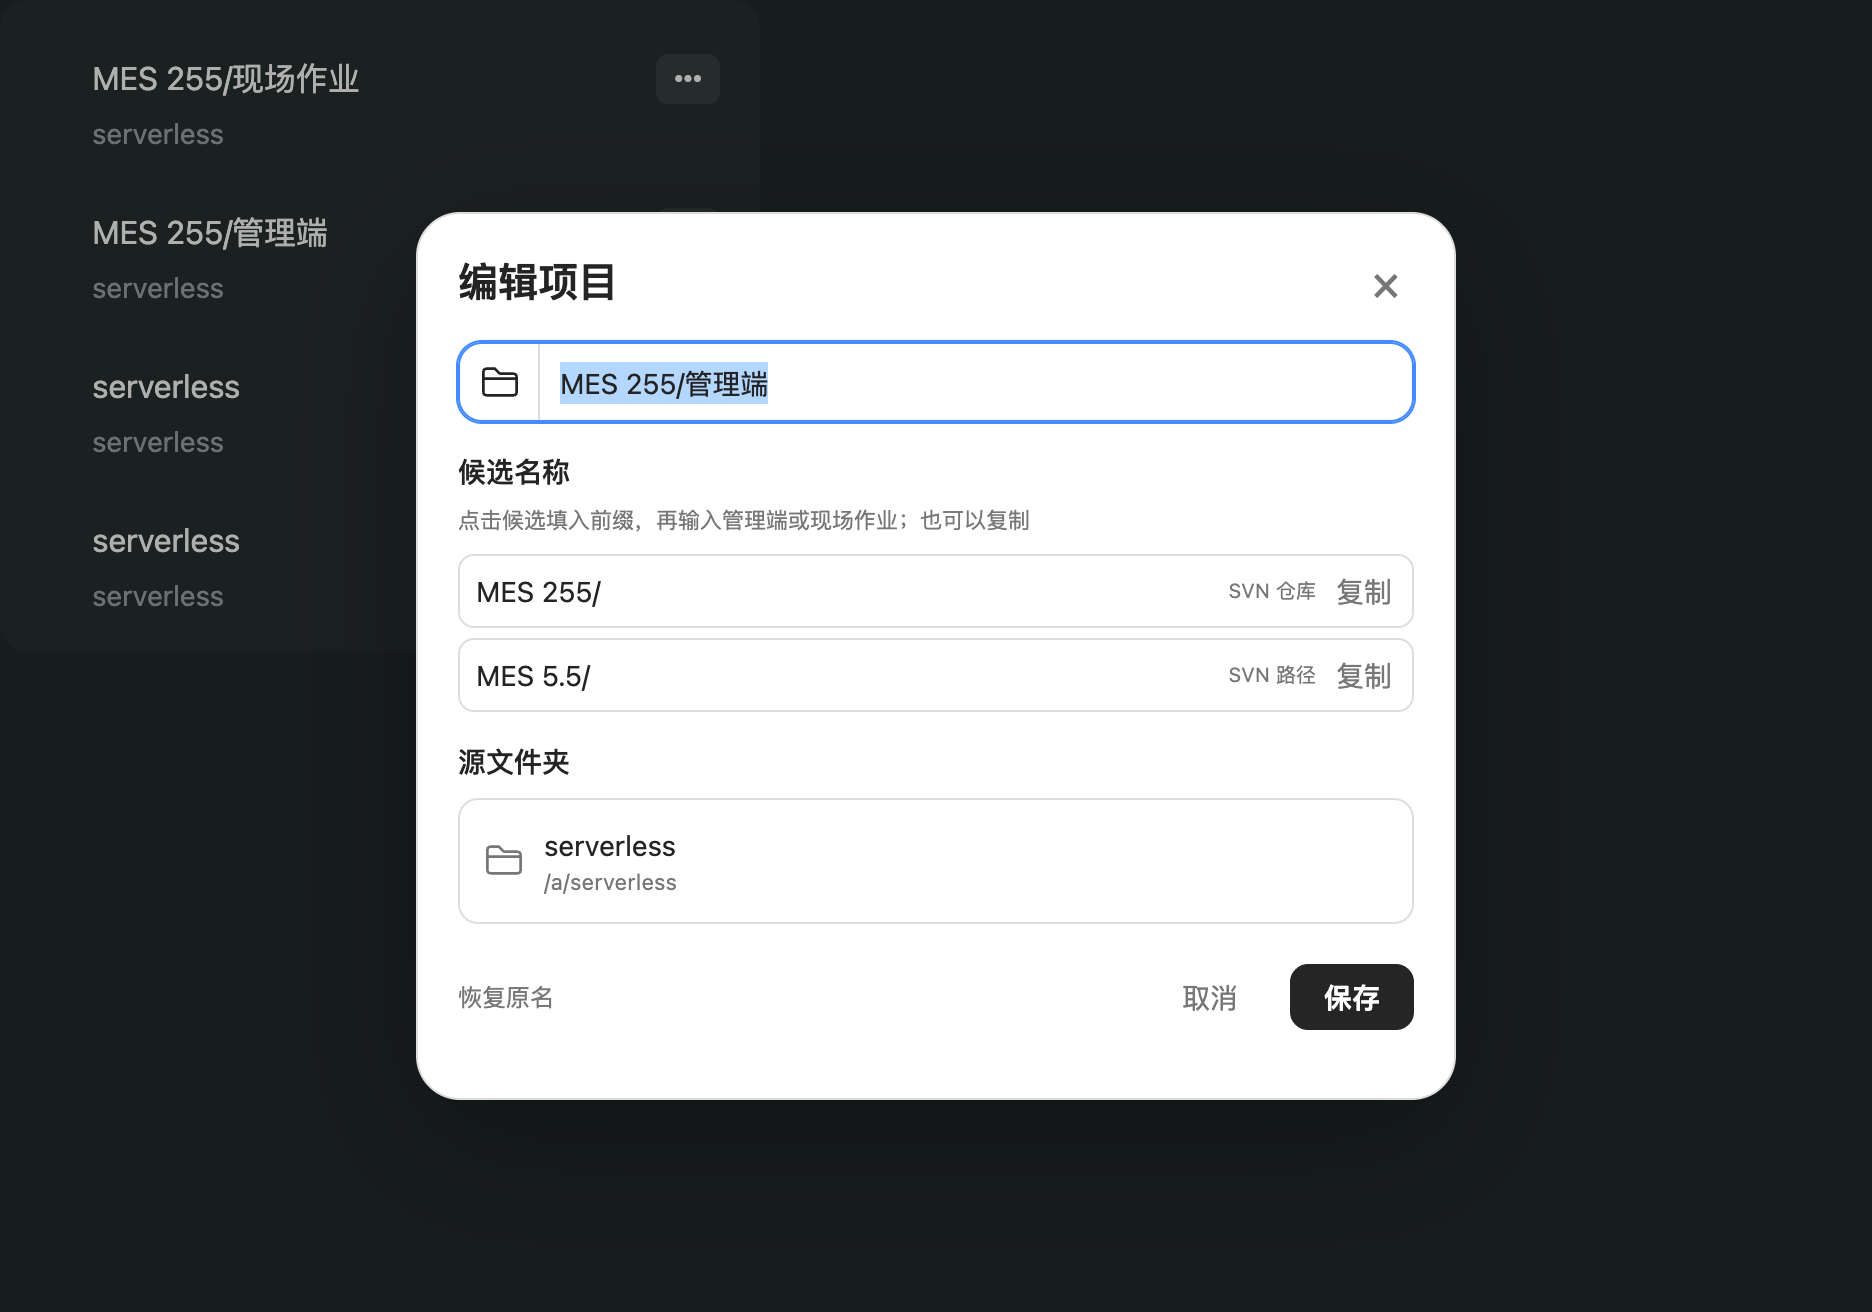
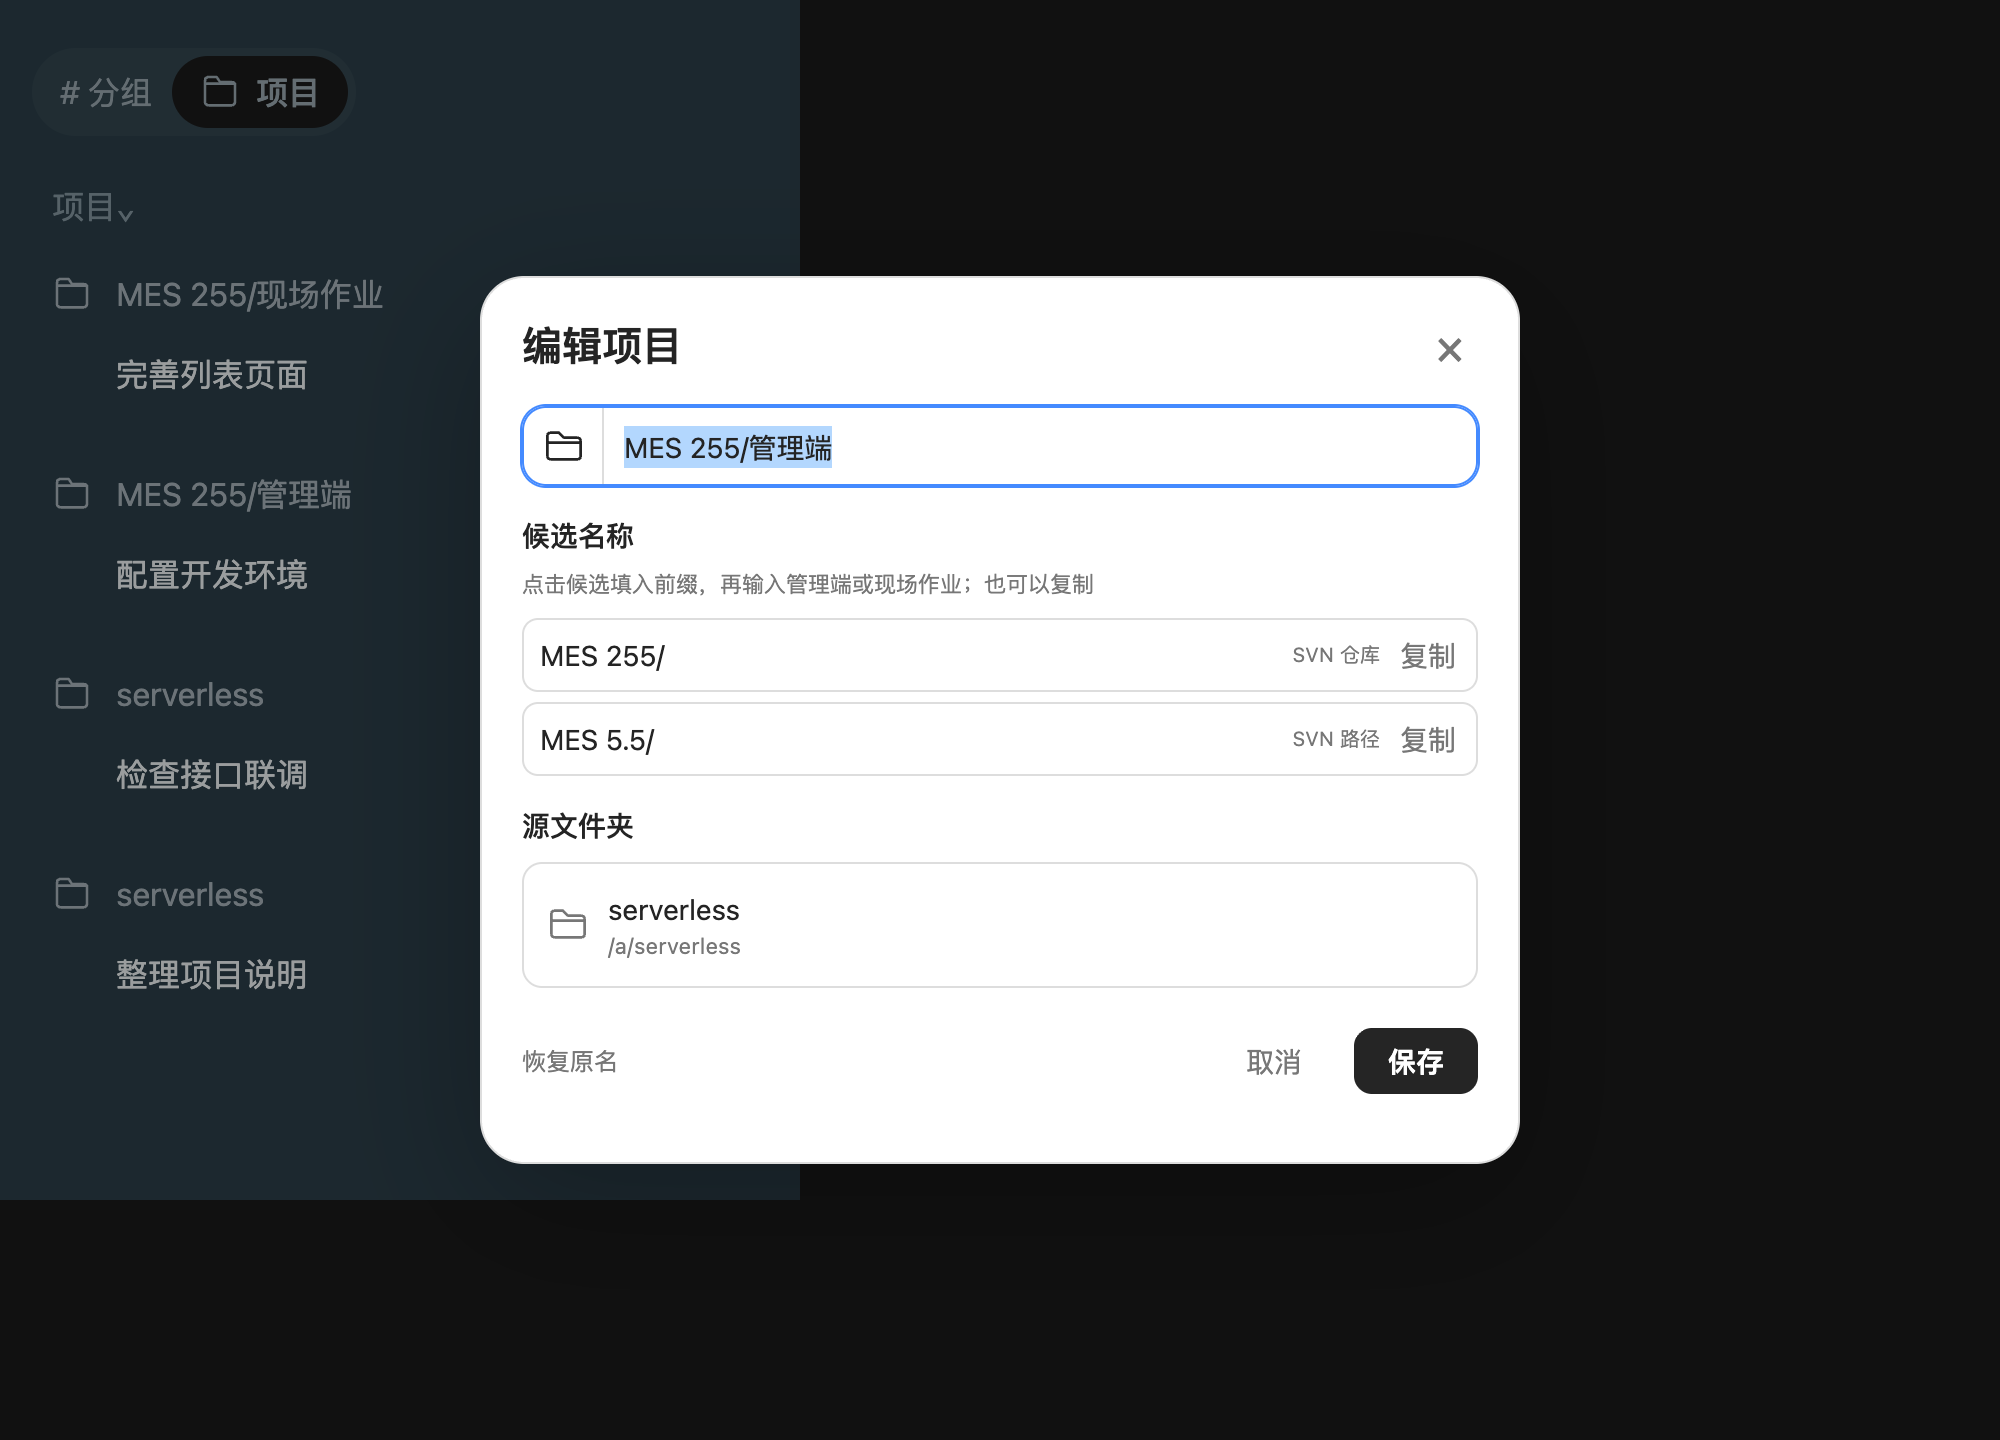
文档：修正项目悬停操作截图与功能入口说明

diff --git a/scripts/screenshot-fixture.jsx b/scripts/screenshot-fixture.jsx
@@ -1,0 +1,36 @@
+/** README 截图宿主。作者：Jason.chen
+ * 按用户提供的 ZCode 项目侧栏参考图还原悬停布局，数据均为演示数据。
+ * 仅供截图使用，不将这个宿主样式注入真实 ZCode。
+ */
+import React from 'react';
+import { createRoot } from 'react-dom/client';
+import * as Menu from '@radix-ui/react-dropdown-menu';
+
+const Icon = ({ shape }) => <svg width="20" height="20" viewBox="0 0 24 24" fill="none" stroke="currentColor" strokeWidth="1.6" strokeLinecap="round" strokeLinejoin="round"><path d={shape}/></svg>;
+const folder = 'M3 7V5a2 2 0 0 1 2-2h5l2 3h7a2 2 0 0 1 2 2v10a2 2 0 0 1-2 2H5a2 2 0 0 1-2-2V7h18';
+const tabs = [
+  { kind: 'workspace', workspacePath: '/a/serverless', label: 'serverless', task: '配置开发环境', age: '16小时' },
+  { kind: 'workspace', workspacePath: '/b/serverless', label: 'serverless', task: '完善列表页面', age: '20小时' },
+  { kind: 'workspace', workspacePath: '/c/serverless', label: 'serverless', task: '检查接口联调', age: '1天' },
+  { kind: 'workspace', workspacePath: '/d/serverless', label: 'serverless', task: '整理项目说明', age: '2天' },
+];
+const Workspace = ({ tab }) => <li data-project-entry={tab.workspacePath}>
+  <div role="button" data-testid={`workspace-item-${tab.workspacePath}`}>
+    <Icon shape={folder}/><div className="min-w-0 truncate text-ui-base">{tab.label}</div>
+    <div className="workspace-actions">
+      <Menu.Root><Menu.Trigger asChild><button aria-label="更多">···</button></Menu.Trigger>
+        <Menu.Portal><Menu.Content className="fixture-menu" align="end" sideOffset={4}>
+          <Menu.Item data-testid={`workspace-close-${tab.workspacePath}`} className="fixture-item"><Icon shape="M6 6l12 12M18 6L6 18"/>移除</Menu.Item>
+        </Menu.Content></Menu.Portal>
+      </Menu.Root>
+      <button aria-label="宿主原有操作一"><Icon shape="M8 5h13M8 12h13M8 19h13M3 5v14h2"/></button>
+      <button aria-label="宿主原有操作二"><Icon shape="M21 11a9 9 0 0 1-9 9H3l2-5a9 9 0 1 1 16-4zM12 7v8M8 11h8"/></button>
+    </div>
+  </div>
+  <div role="button" data-testid="task-item"><span>{tab.task}</span><time>{tab.age}</time></div>
+</li>;
+createRoot(document.getElementById('root')).render(<aside>
+  <div className="sidebar-tabs"><span># 分组</span><strong><Icon shape={folder}/>项目</strong></div>
+  <div className="sidebar-heading">项目⌄</div>
+  <ul data-testid="workspace-list">{tabs.map(tab => <Workspace key={tab.workspacePath} tab={tab}/>)}</ul>
+</aside>);
